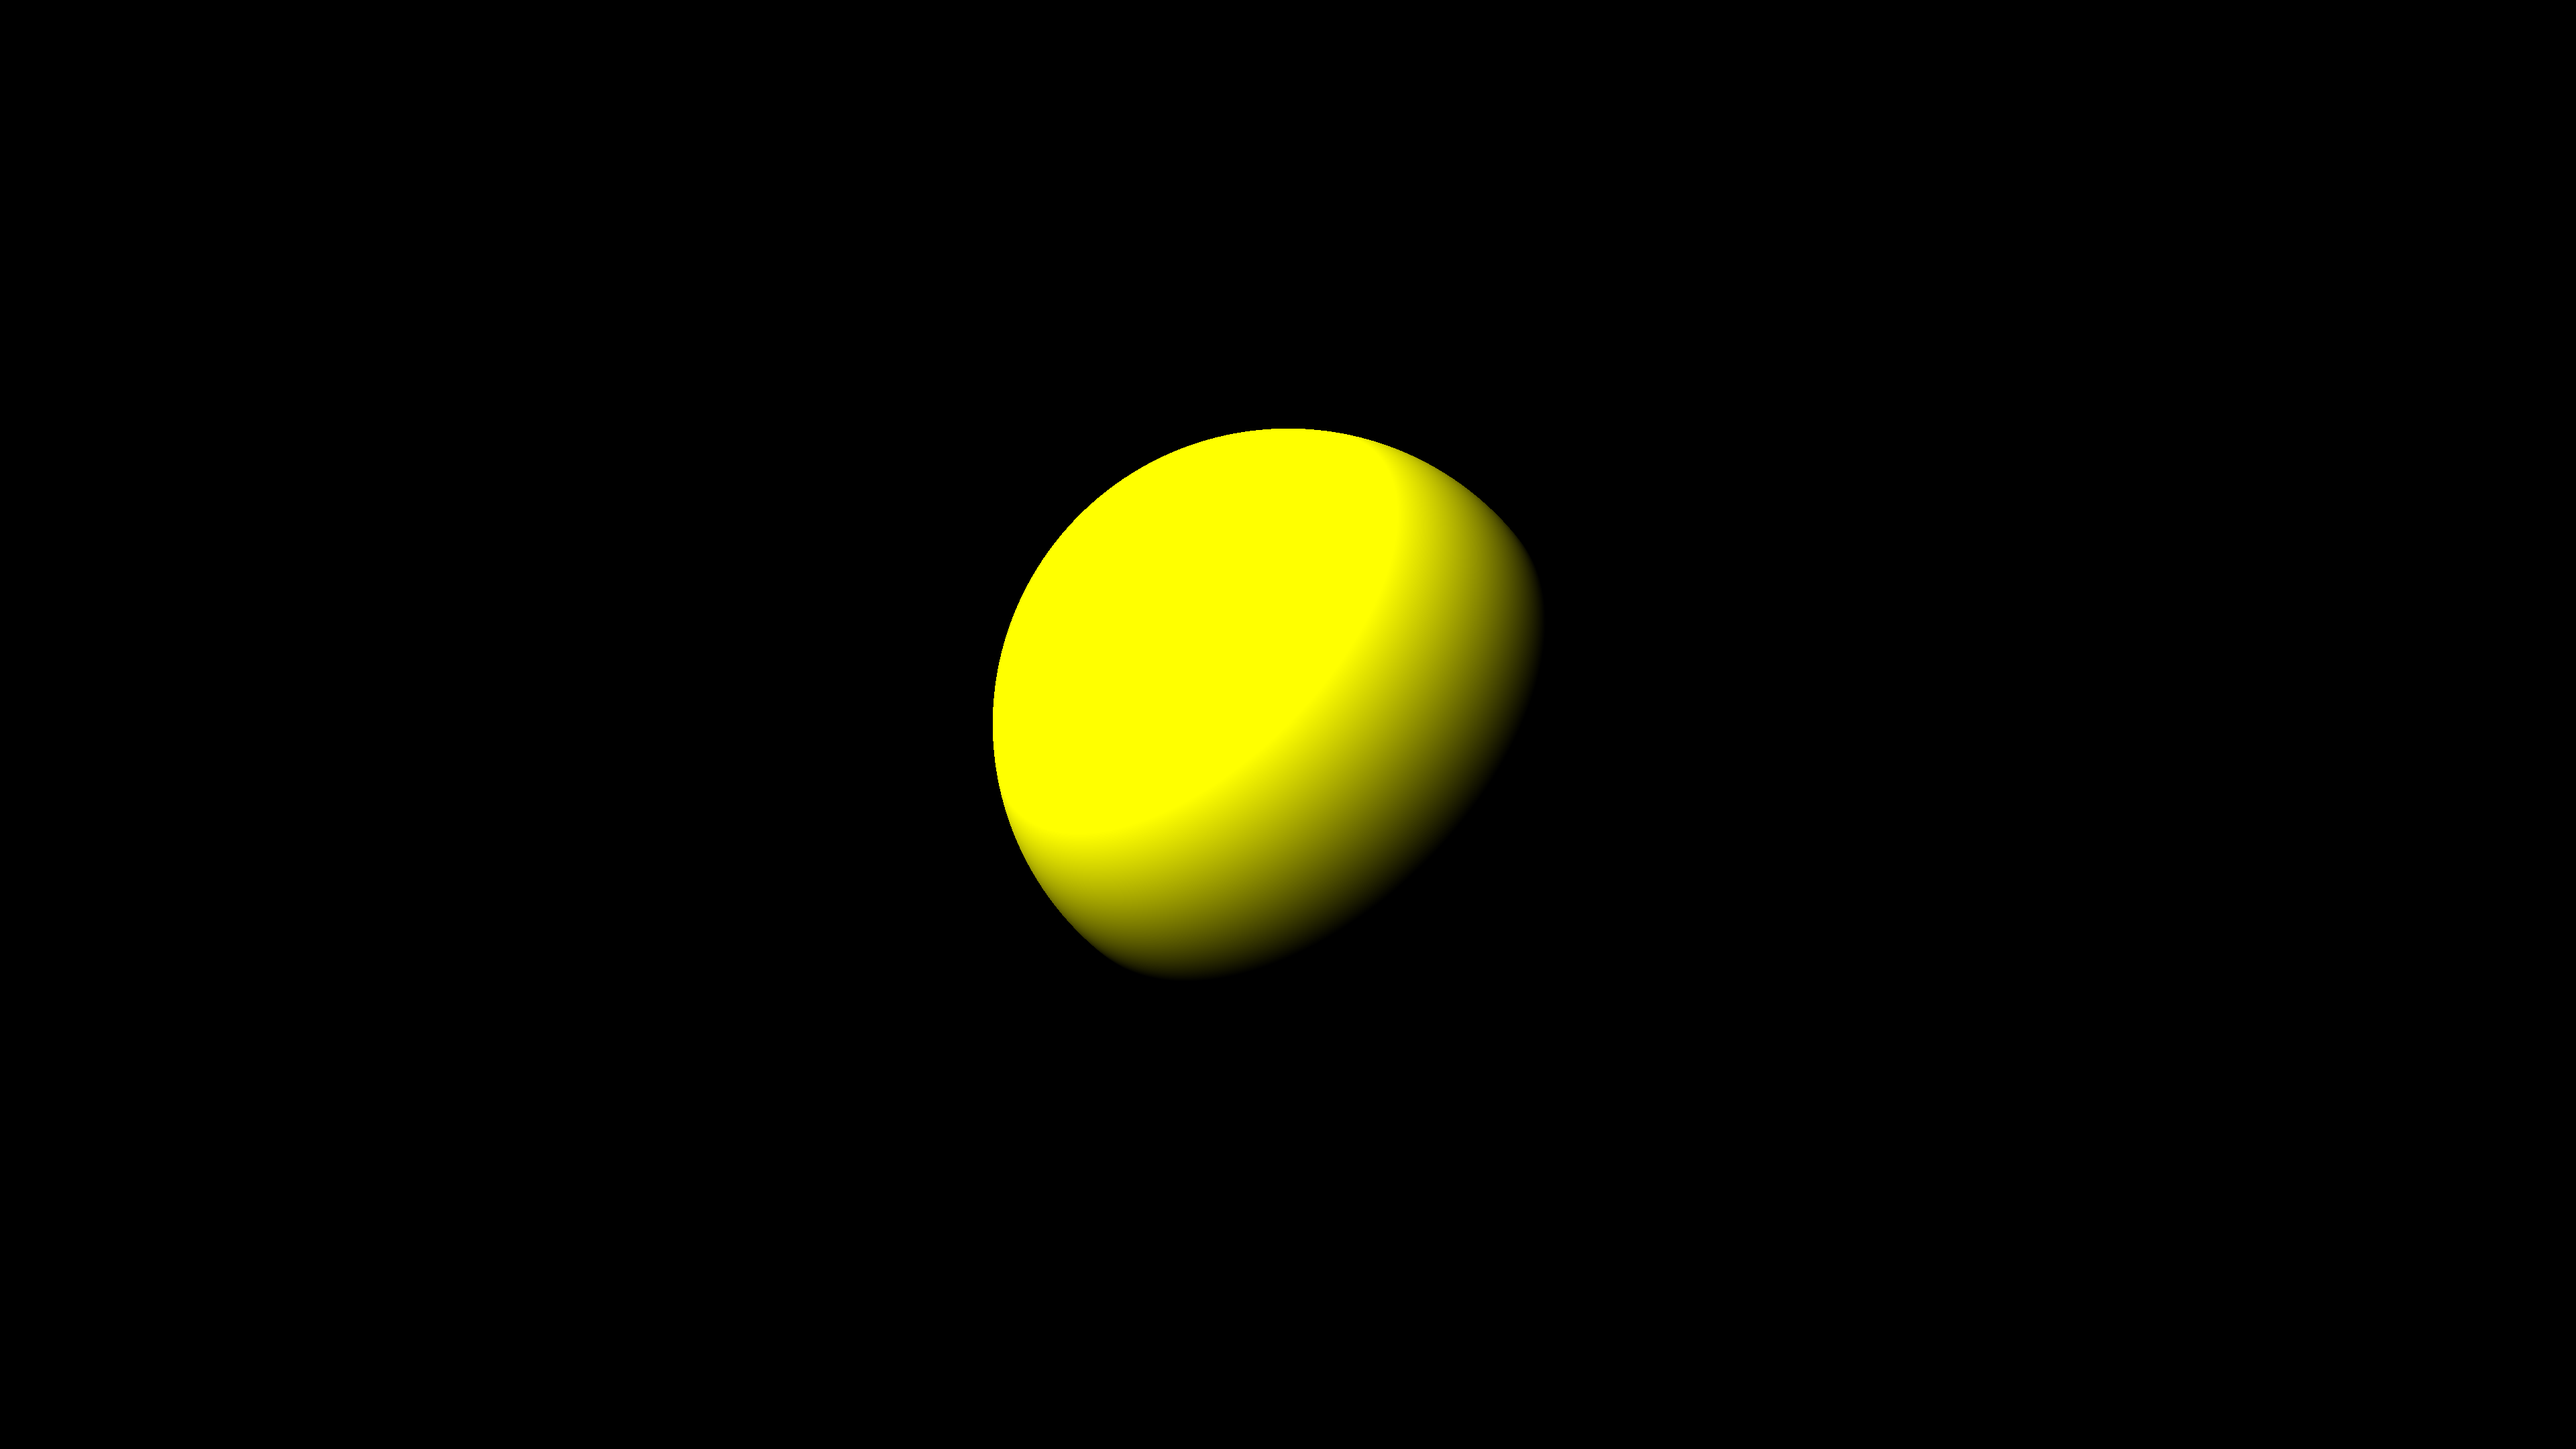
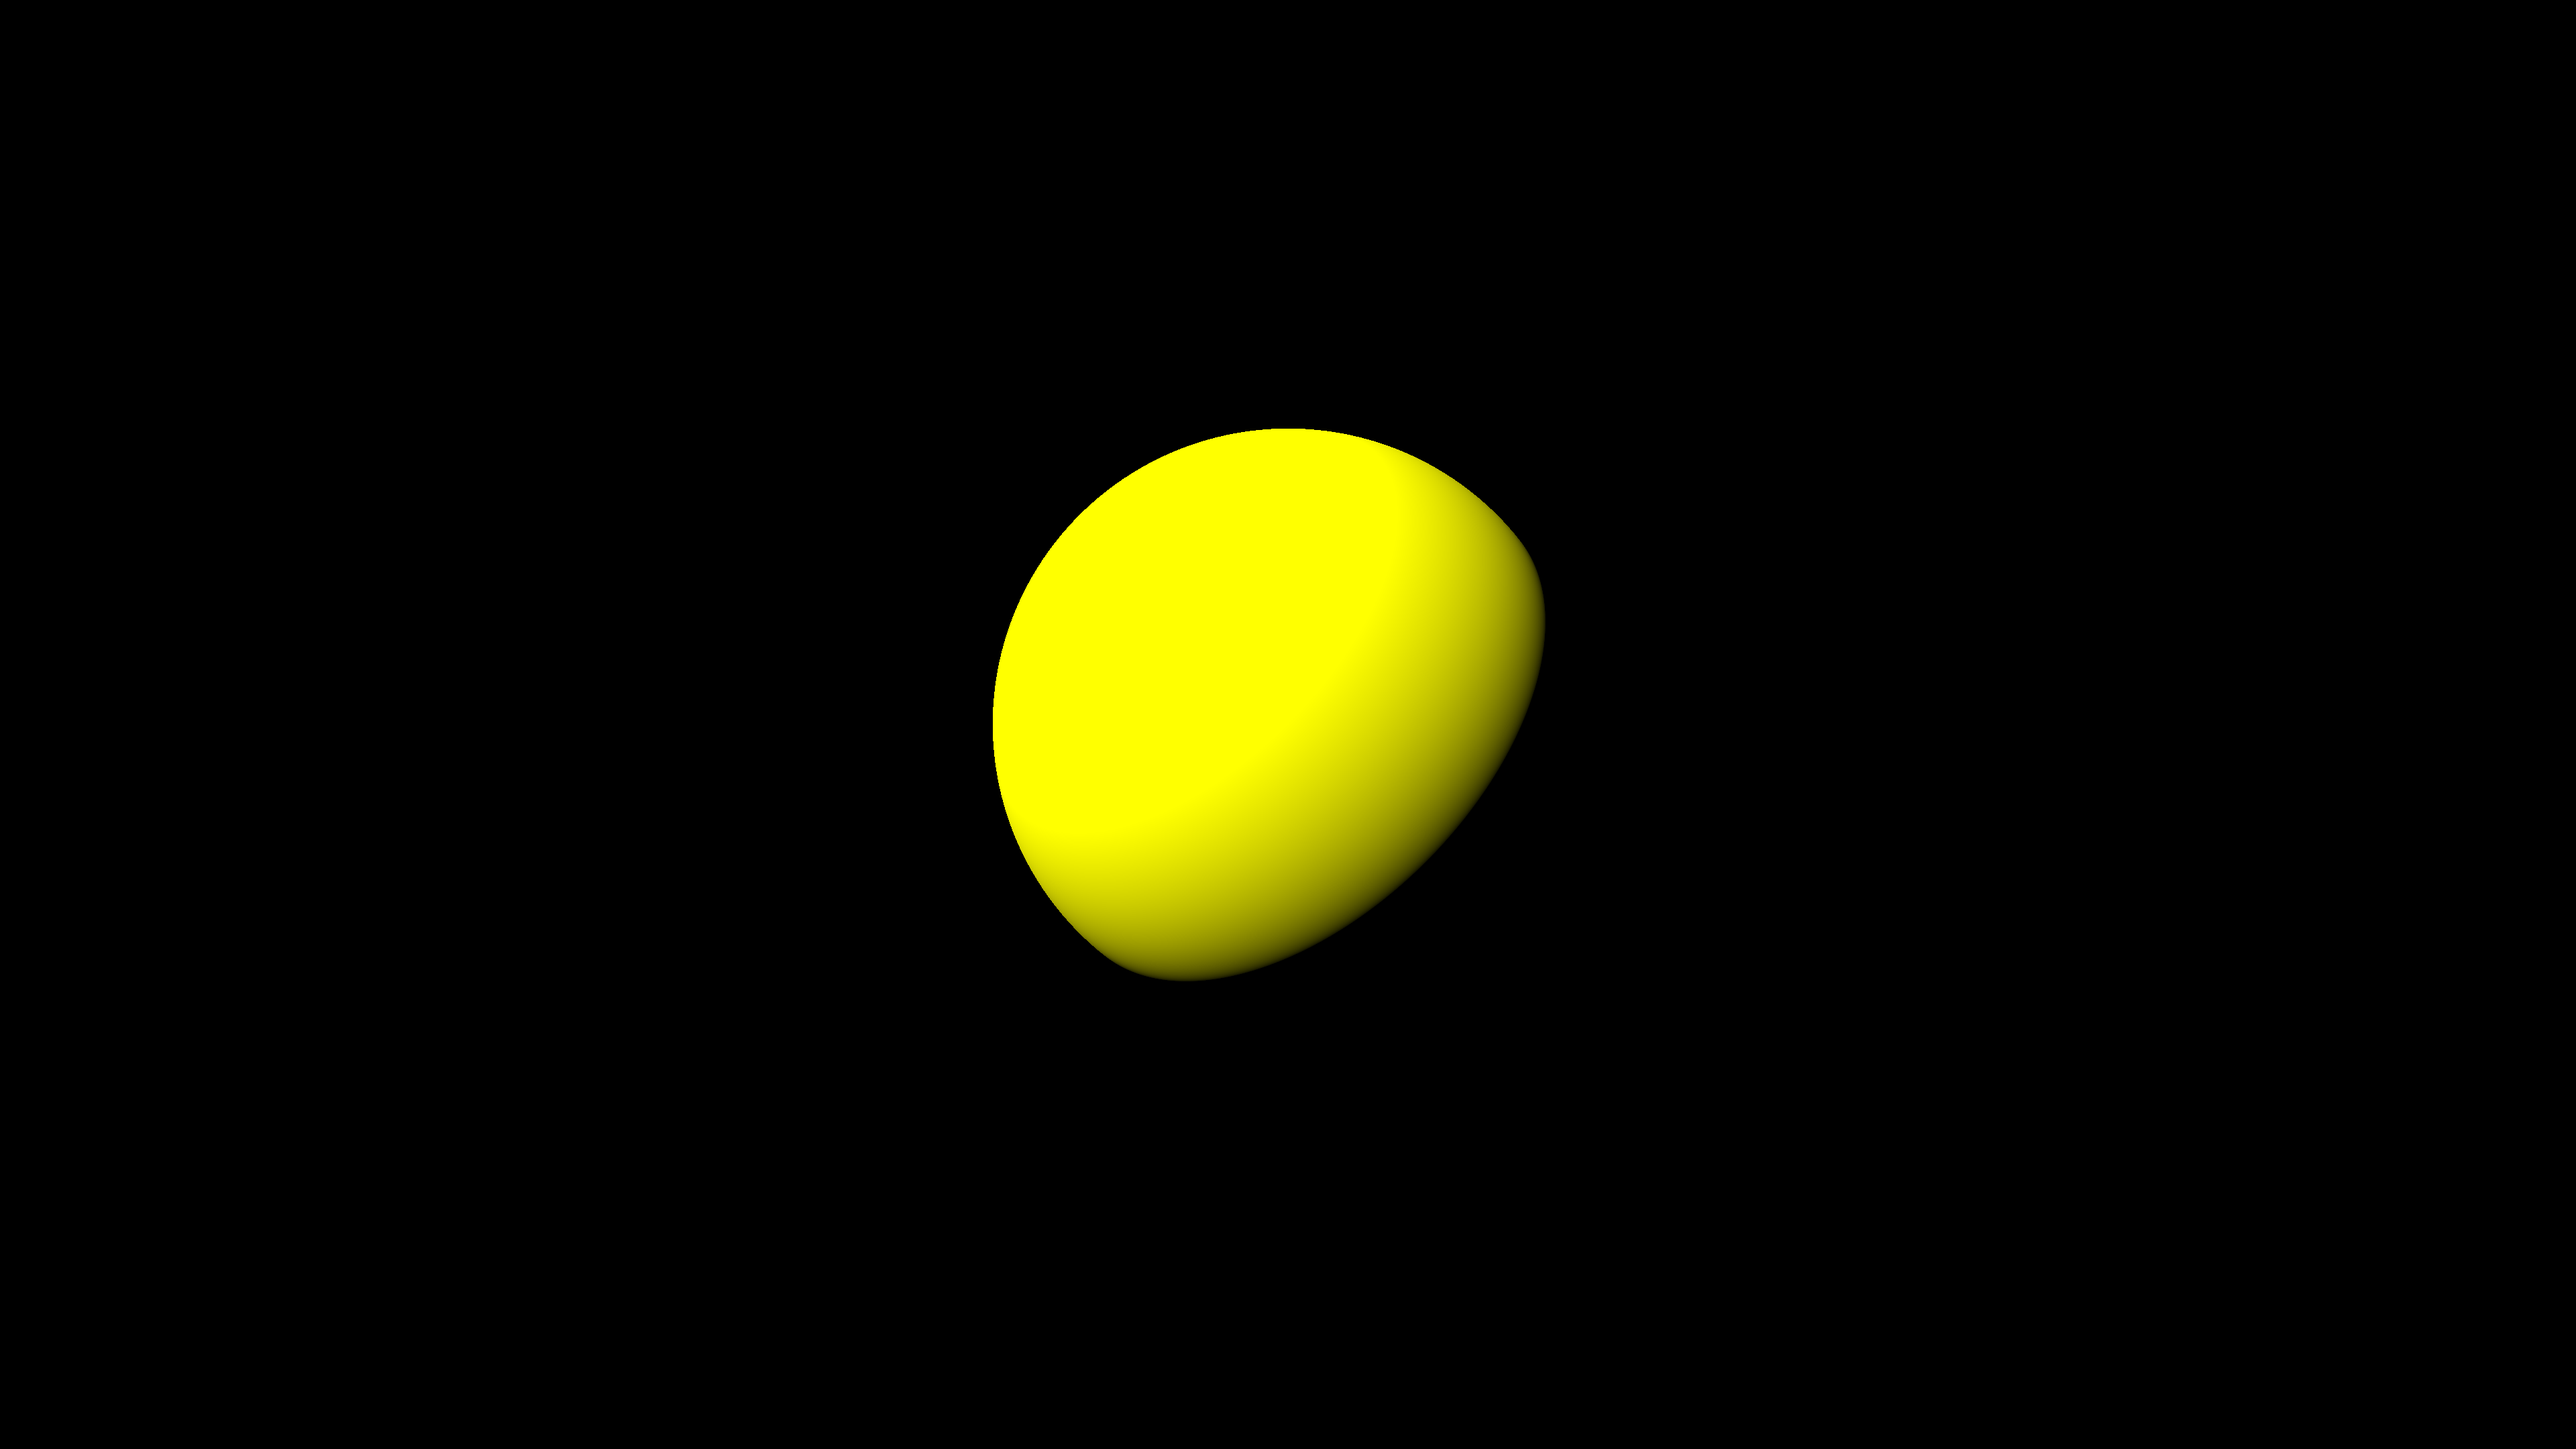
Implement Gamma Correction

Changed region(s): [[0.375, 0.3102, 0.625, 0.6824]]

diff --git a/src/PathTracer/ImageWriters/FileImageWriter.cs b/src/PathTracer/ImageWriters/FileImageWriter.cs
@@ -6,6 +6,8 @@ namespace PathTracer.ImageWriters;
 
 public class FileImageWriter : IImageWriter<FileImage>
 {
+    private const float _gammaCorrection = 1.0f / 2.2f;
+
     public FileImageWriter()
     {
     }
@@ -24,18 +26,22 @@ public class FileImageWriter : IImageWriter<FileImage>
         {
             for (var j = 0; j < image.Width; j++)
             {
-                var color = image.ImageData.Span[i * image.Width + j];
+                var pixel = image.ImageData.Span[i * image.Width + j];
 
-                var red = (byte)(color.X * 255);
-                var green = (byte)(color.Y * 255);
-                var blue = (byte)(color.Z * 255);
-              
-                outputImage[j, i] = new Rgb24(red, green, blue);
+                pixel = GammaCorrect(pixel);
+                pixel = Vector4.Clamp(pixel * 255.0f, Vector4.Zero, new Vector4(255.0f));
+            
+                outputImage[j, i] = new Rgb24((byte)pixel.X, (byte)pixel.Y, (byte)pixel.Z);
             }
         }
 
         using var fileStream = new FileStream(image.OutputPath, FileMode.Create);
         var encoder = new PngEncoder();
         encoder.Encode(outputImage, fileStream); 
+    }
+    
+    private static Vector4 GammaCorrect(Vector4 pixel)
+    {
+        return new Vector4(MathF.Pow(pixel.X, _gammaCorrection), MathF.Pow(pixel.Y, _gammaCorrection), MathF.Pow(pixel.Z, _gammaCorrection), pixel.W);
     }
 }

diff --git a/src/PathTracer/ImageWriters/TextureImageWriter.cs b/src/PathTracer/ImageWriters/TextureImageWriter.cs
@@ -3,6 +3,7 @@ namespace PathTracer.ImageWriters;
 public class TextureImageWriter : IImageWriter<TextureImage>
 {
     private readonly IGraphicsService _graphicsService;
+    private const float _gammaCorrection = 1.0f / 2.2f;
 
     public TextureImageWriter(IGraphicsService graphicsService)
     {
@@ -13,10 +14,15 @@ public class TextureImageWriter : IImageWriter<TextureImage>
     {
         var pixelRowIndex = (image.Height - 1 - y) * image.Width;
 
-        // TODO: Implement Gamma Correction
-        pixel *= 255.0f;
+        pixel = GammaCorrect(pixel);
+        pixel = Vector4.Clamp(pixel * 255.0f, Vector4.Zero, new Vector4(255.0f));
 
         image.ImageData.Span[pixelRowIndex + x] = (uint)pixel.W << 24 | (uint)pixel.Z << 16 | (uint)pixel.Y << 8 | (uint)pixel.X;
+    }
+
+    private static Vector4 GammaCorrect(Vector4 pixel)
+    {
+        return new Vector4(MathF.Pow(pixel.X, _gammaCorrection), MathF.Pow(pixel.Y, _gammaCorrection), MathF.Pow(pixel.Z, _gammaCorrection), pixel.W);
     }
 
     public void CommitImage(TextureImage image)
